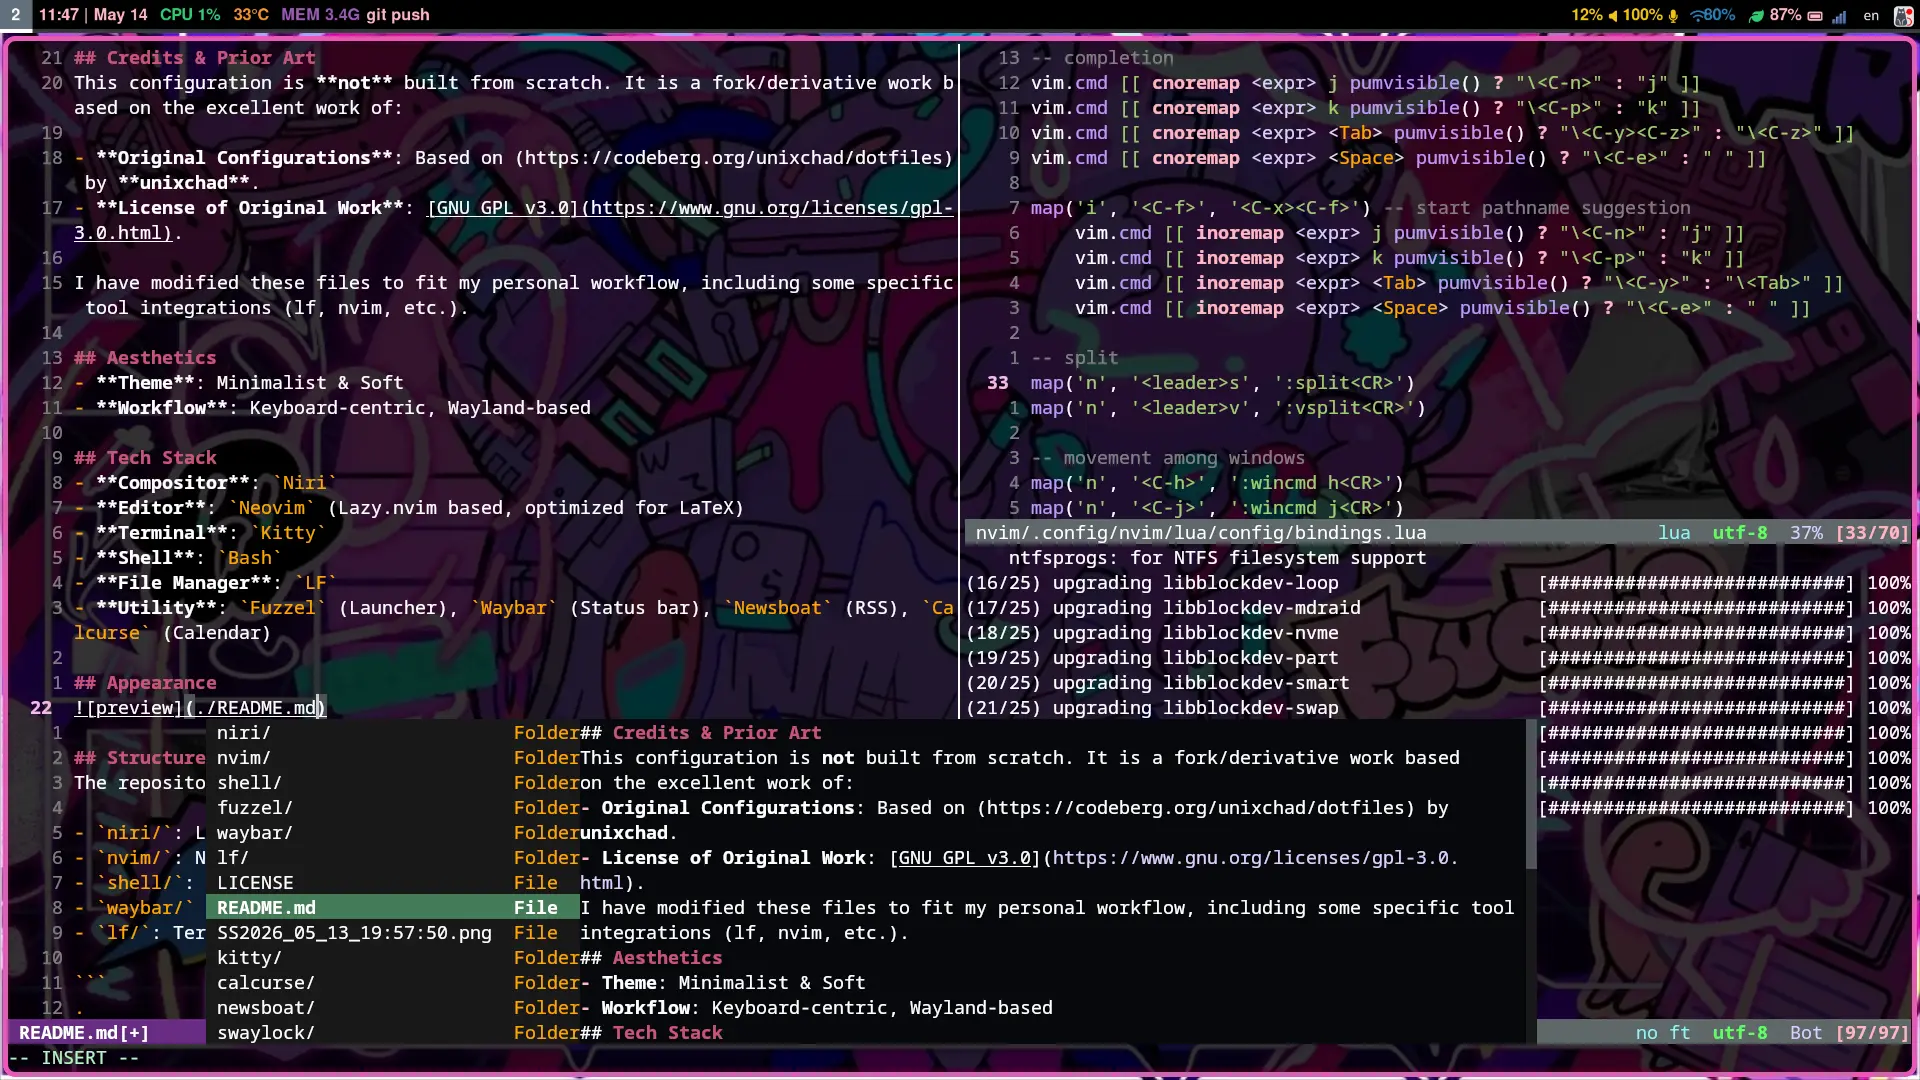
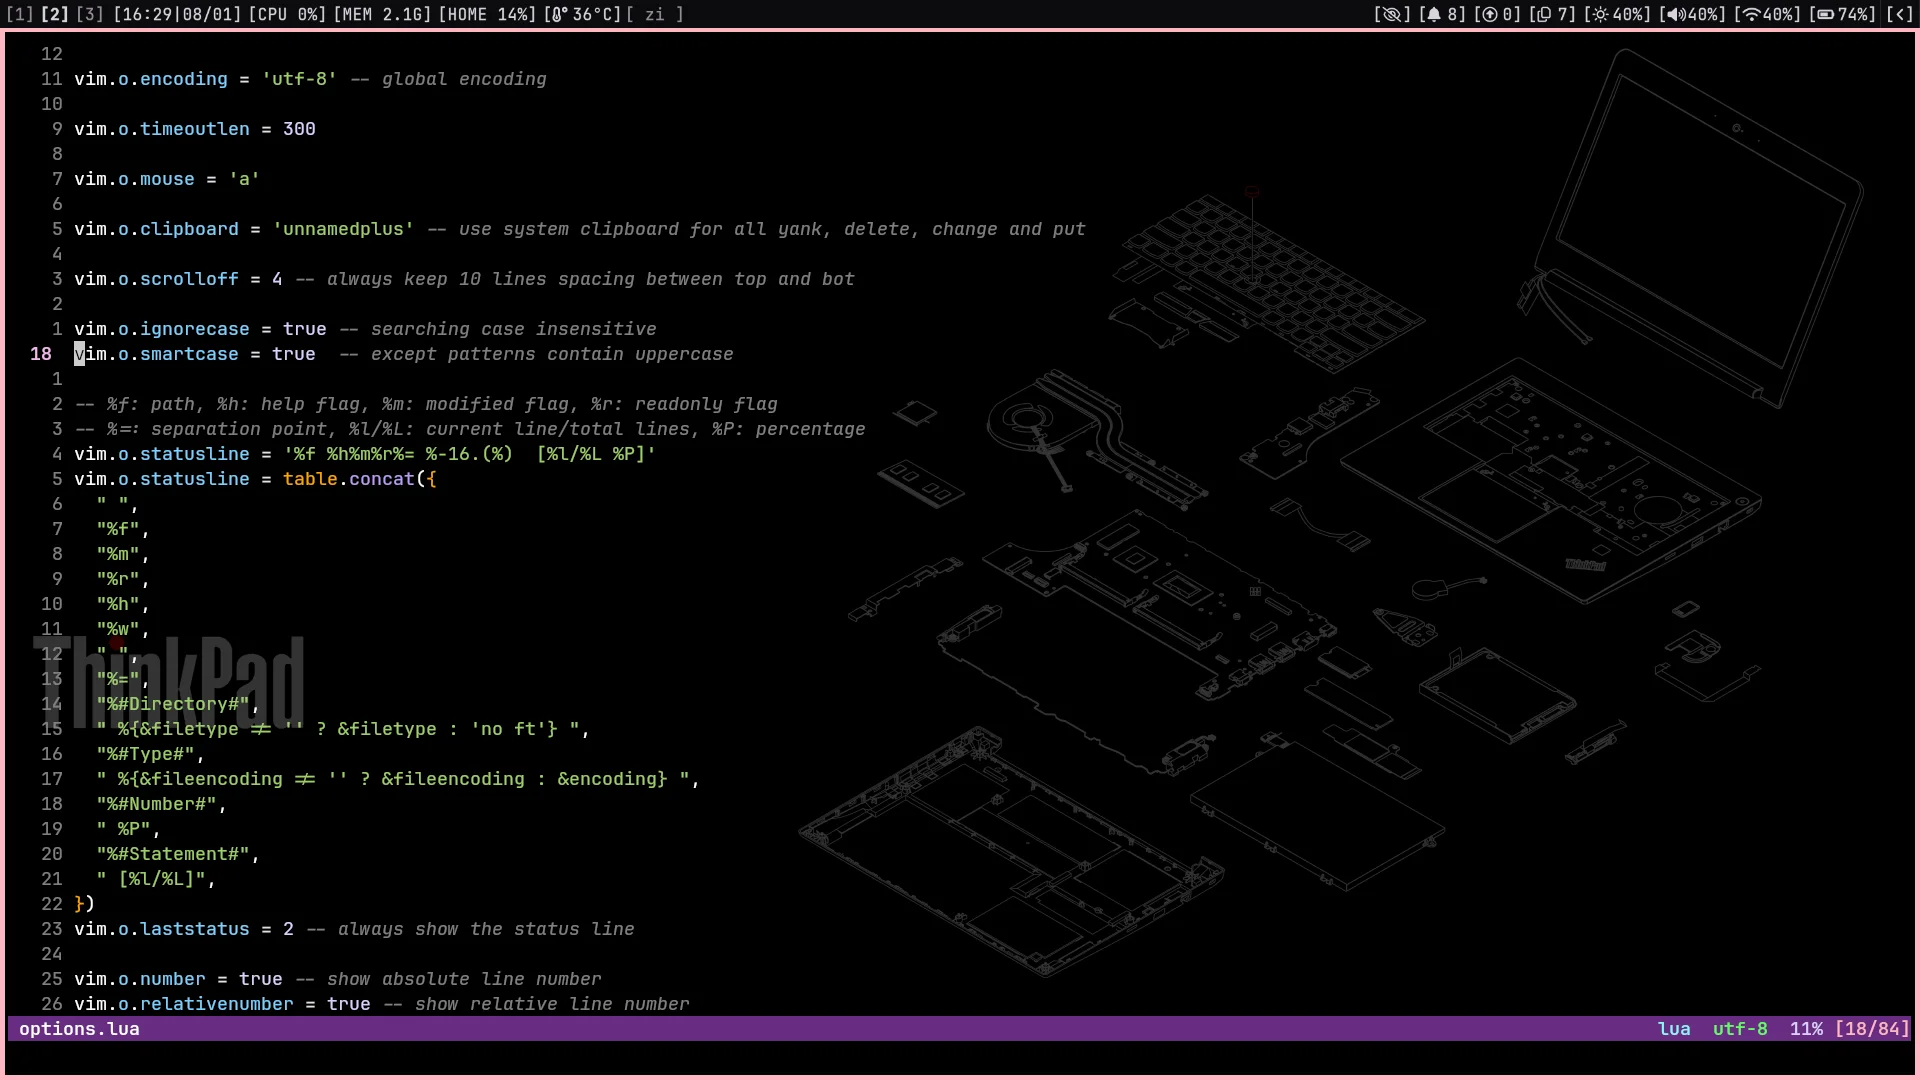
Added some scripts and modified the screenshots

diff --git a/README.md b/README.md
@@ -24,88 +24,6 @@ I have modified these files to fit my personal workflow, including some specific
 ![preview](./screenshots/nvim.webp)
 + lf
 ![preview](./screenshots/lf.webp)
-+ swaylock
-+ fuzzel
-+ calcurse
-
-+ newsboat
-## Structure Overview
-The repository is organized into packages compatible with `GNU Stow`:
-
-- `niri/`: Layout and keybindings for the scroll-stacking compositor.
-- `nvim/`: Neovim setup.
-- `shell/`: Core environment variables and shell aliases.
-- `waybar/` & `fuzzel/`: UI components themed with the Juliet Pink palette.
-- `lf/`: Terminal file manager with custom icons and keybindings.
-
-```
-.
-├── calcurse
-│   └── .config
-│       └── calcurse
-│           ├── conf
-│           ├── hooks
-│           └── keys
-├── fuzzel
-│   └── .config
-│       └── fuzzel
-│           └── fuzzel.ini
-├── kitty
-│   └── .config
-│       └── kitty
-│           └── kitty.conf
-├── lf
-│   └── .config
-│       └── lf
-│           ├── colors
-│           ├── command.conf
-│           ├── icons
-│           ├── keybinding.conf
-│           ├── lfrc
-│           └── rifle.conf
-├── newsboat
-│   └── .config
-│       └── newsboat
-│           ├── bindings.conf
-│           ├── colors.conf
-│           ├── config
-│           └── urls
-├── niri
-│   └── .config
-│       └── niri
-│           └── config.kdl
-├── nvim
-│   └── .config
-│       └── nvim
-│           ├── init.lua
-│           ├── lazy-lock.json
-│           └── lua
-│               ├── config
-│               │   ├── bindings.lua
-│               │   ├── colors.lua
-│               │   ├── juliet.lua
-│               │   └── options.lua
-│               └── plugins
-│                   ├── cmp.lua
-│                   ├── nvim-lspconfig.lua
-│                   ├── rander-markdown.lua
-│                   └── vimtex.lua
-├── shell
-│   ├── .bash_profile
-│   ├── .bashrc
-│   ├── .inputrc
-│   └── .profile
-├── swaylock
-│   └── .config
-│       └── swaylock
-│           └── config
-└── waybar
-    └── .config
-        └── waybar
-            ├── config.jsonc
-            └── style.css
-```
-
 ## Usage
 ```bash
 # e.g., configure nvim
